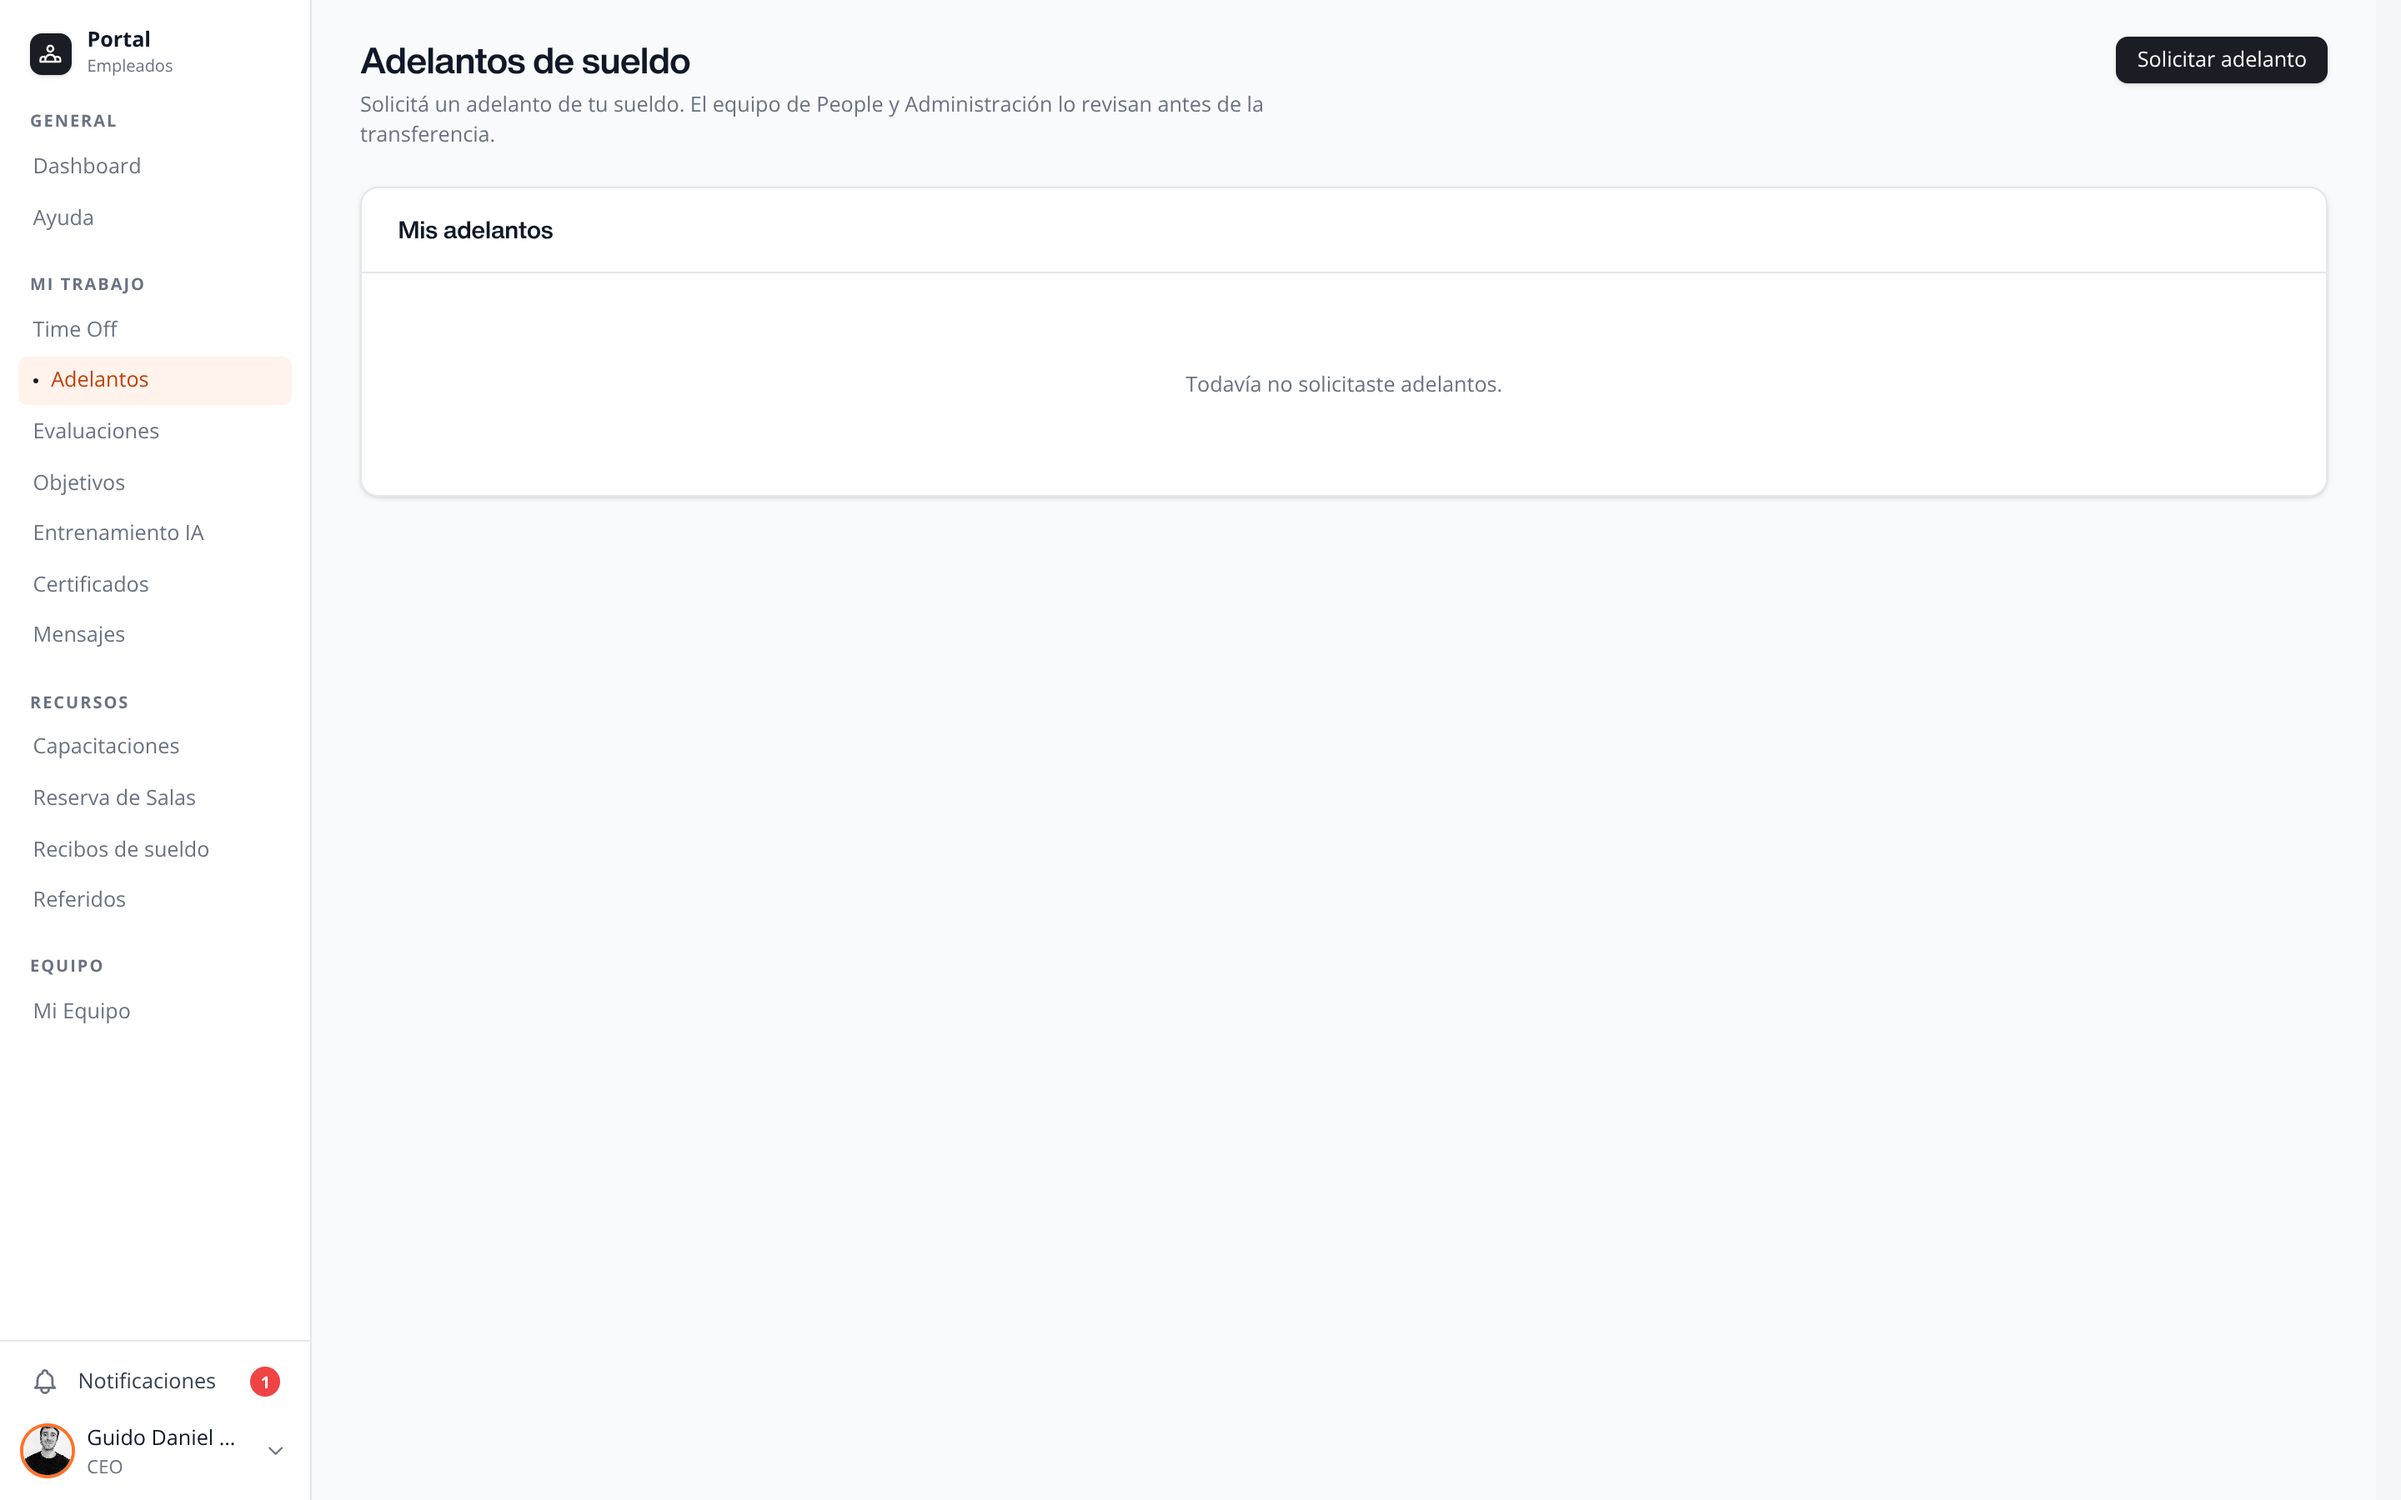
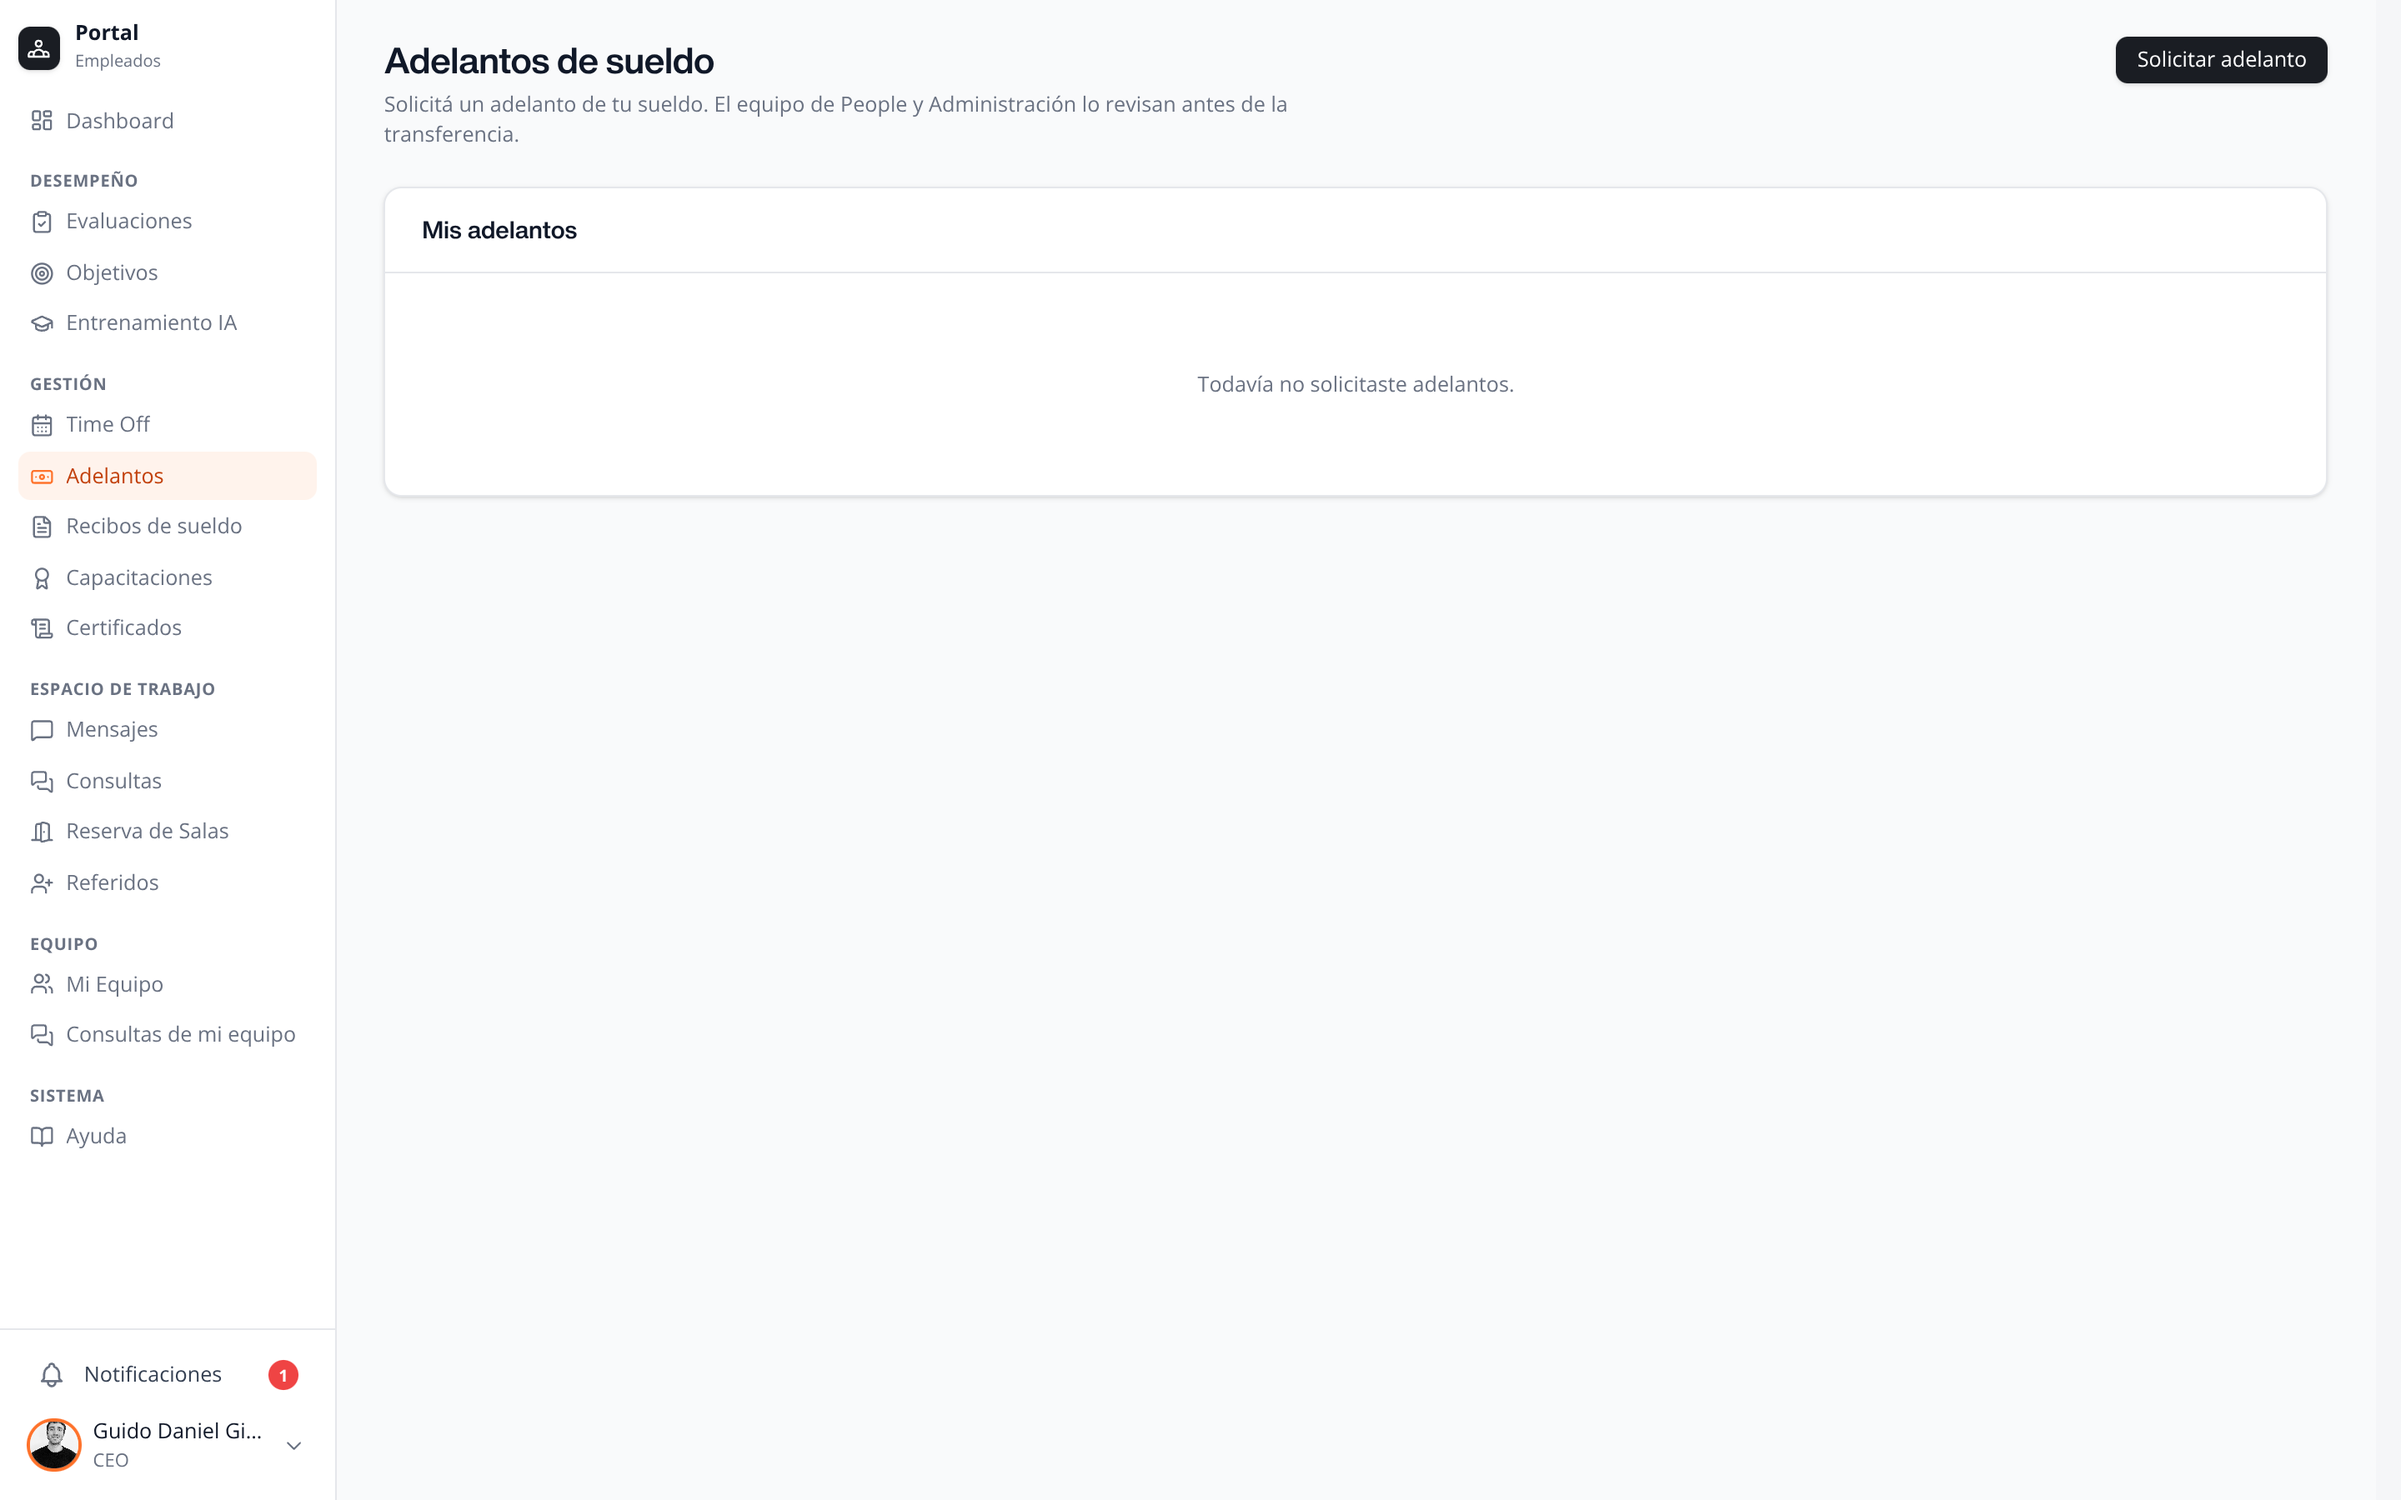
chore(manuales): recapturar el portal tras el cambio de sidebar y paneles
Las capturas de Adelantos, Capacitaciones y Consultas mostraban el formulario
en línea (ya no existe) y la sidebar vieja, con los grupos 'Mi trabajo' y
'Recursos'. Se recapturan las 6 y se corrige el texto alt y la referencia a
los requisitos, que ahora van dentro del panel.

diff --git a/src/app/portal/ayuda/page.tsx b/src/app/portal/ayuda/page.tsx
@@ -30,7 +30,7 @@ export default async function PortalAyudaPage() {
           </div>
 
           <div className="mt-8 space-y-10">
-            <ManualStep image="/manual/adelantos-portal/01-inicio.png" n={1} title="Dónde pedirlo" imageAlt="Menú del portal con 'Adelantos' resaltado en 'Mi trabajo' y el botón 'Solicitar adelanto'.">
+            <ManualStep image="/manual/adelantos-portal/01-inicio.png" n={1} title="Dónde pedirlo" imageAlt="Menú del portal con 'Adelantos' resaltado en Gestión y el botón 'Solicitar adelanto'.">
               <p>En el menú del portal, entrá a <b>Adelantos</b>. Ahí solicitás y ves el estado de tus adelantos.</p>
             </ManualStep>
 
@@ -39,7 +39,7 @@ export default async function PortalAyudaPage() {
             </ManualStep>
 
             <ManualStep image="/manual/adelantos-portal/02-form.png" n={3} title="Mirá los requisitos" imageAlt="Panel 'Requisitos' con las reglas: antigüedad, fecha límite, monto, sin adelanto vigente, máximo por año, etc.">
-              <p>Debajo del formulario ves los <b>requisitos</b> (antigüedad, fecha, sin adelanto vigente, etc.) con un ✓ si los cumplís. Si te falta alguno, la solicitud igual avanza como <b>excepción</b> pero te pide un <b>motivo</b>.</p>
+              <p>En el mismo panel, debajo de los campos, ves los <b>requisitos</b> (antigüedad, fecha, sin adelanto vigente, etc.) con un ✓ si los cumplís. Si te falta alguno, la solicitud igual avanza como <b>excepción</b> pero te pide un <b>motivo</b>.</p>
               <p>Dos cosas las revisa el equipo a mano: que el monto no supere el 50% de tu neto, y que no haya una renuncia comunicada.</p>
             </ManualStep>
 
@@ -68,7 +68,7 @@ export default async function PortalAyudaPage() {
           </div>
 
           <div className="mt-8 space-y-10">
-            <ManualStep image="/manual/capacitaciones-portal/01-budget.png" n={1} title="Dónde pedirlo" imageAlt="Menú del portal con 'Capacitaciones' resaltado en Recursos.">
+            <ManualStep image="/manual/capacitaciones-portal/01-budget.png" n={1} title="Dónde pedirlo" imageAlt="Menú del portal con 'Capacitaciones' resaltado en Gestión.">
               <p>En el menú del portal, entrá a <b>Capacitaciones</b>. Ahí ves tu budget y solicitás.</p>
             </ManualStep>
 
@@ -108,7 +108,7 @@ export default async function PortalAyudaPage() {
           </div>
 
           <div className="mt-8 space-y-10">
-            <ManualStep image="/manual/consultas-portal/01-lista.png" n={1} title="Dónde hacerla" imageAlt="Menú del portal con 'Consultas' resaltado en Recursos y el botón 'Nueva consulta'.">
+            <ManualStep image="/manual/consultas-portal/01-lista.png" n={1} title="Dónde hacerla" imageAlt="Menú del portal con 'Consultas' resaltado en Espacio de trabajo y el botón 'Nueva consulta'.">
               <p>En el menú del portal, entrá a <b>Consultas</b> y tocá <b>Nueva consulta</b>. Antes de escribir, fijate en la sección de <b>Ayuda</b>: quizás lo que buscás ya esté respondido.</p>
             </ManualStep>
 
